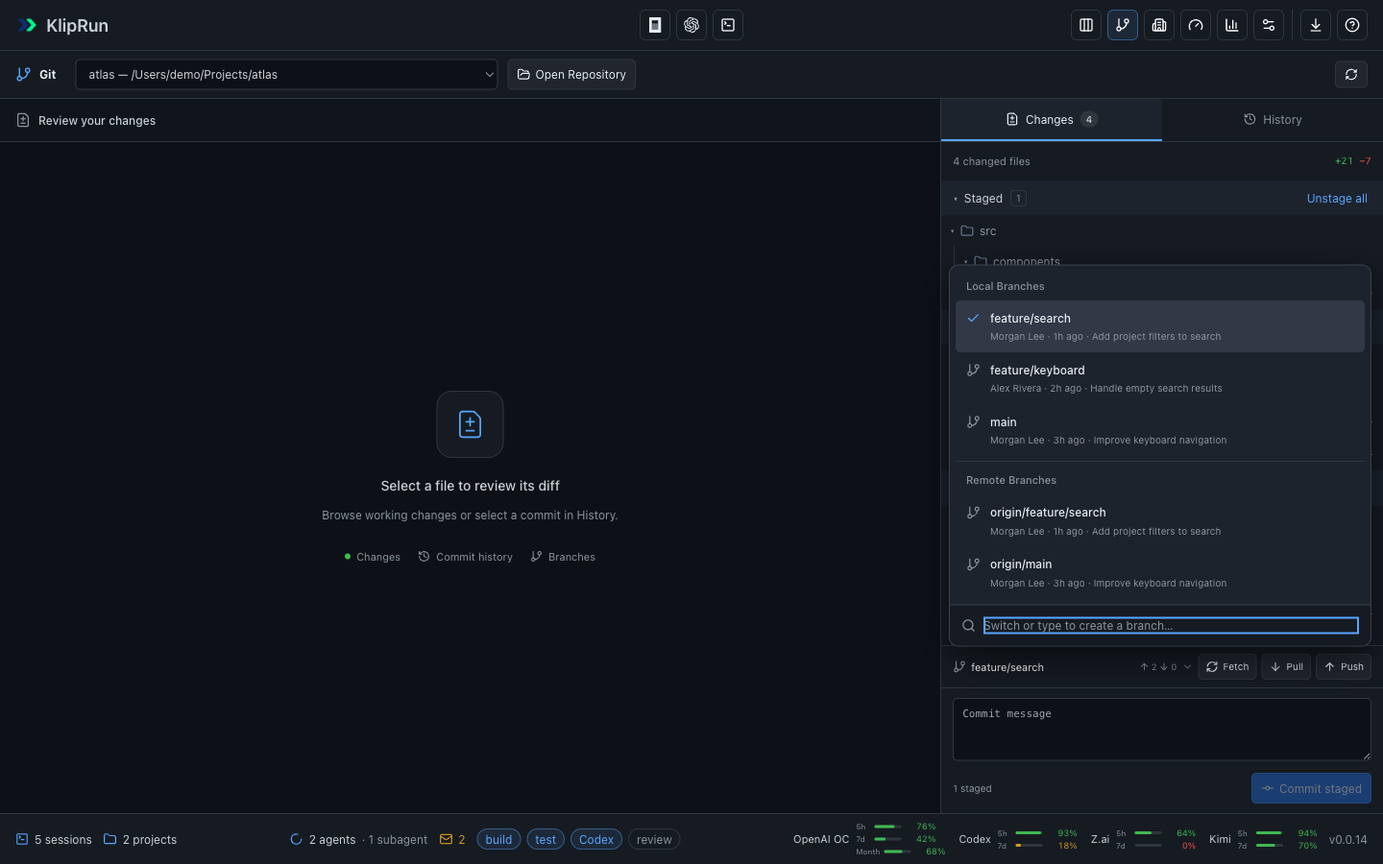
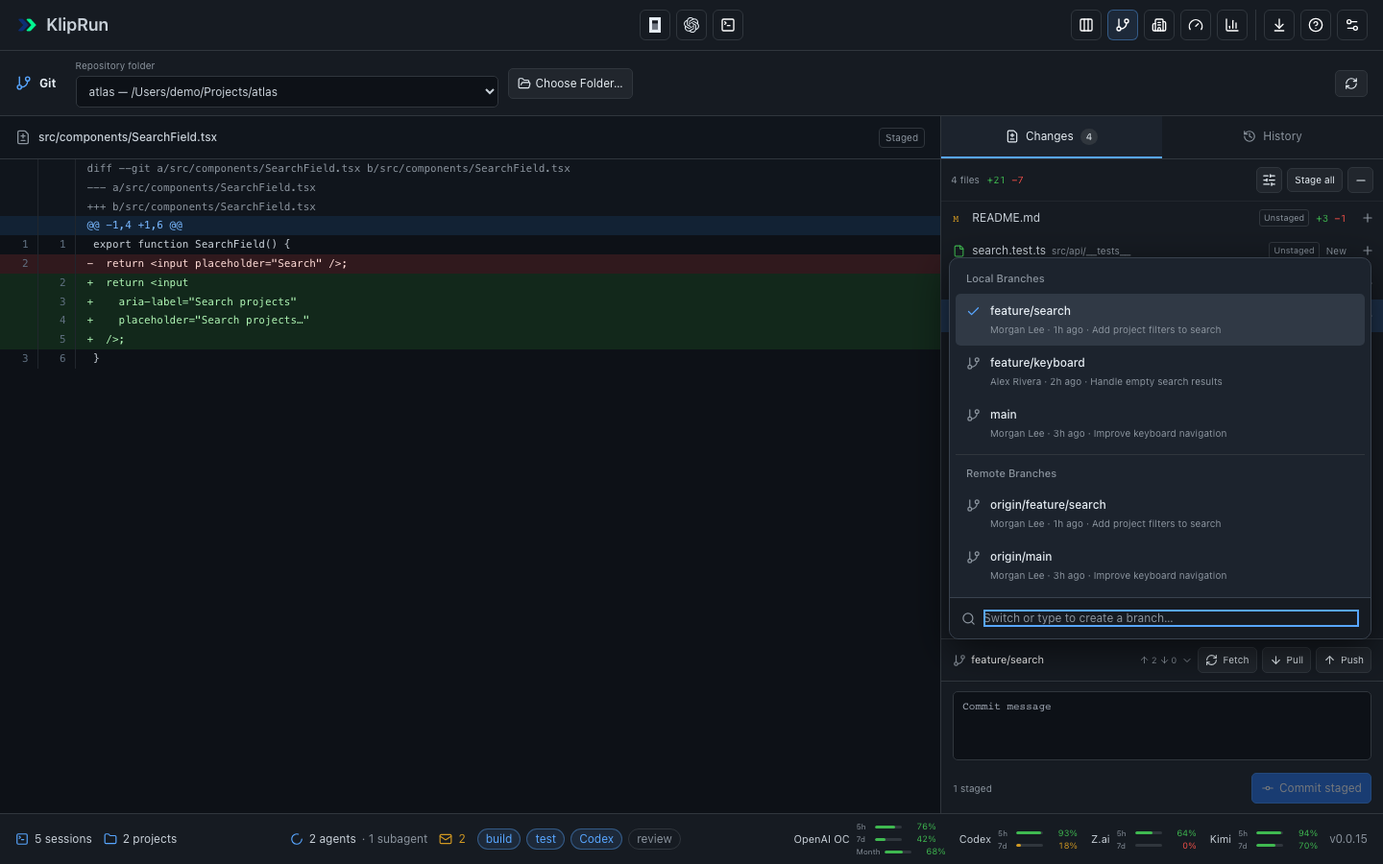
release/0.0.15: Сократить README и подготовить выпуск

diff --git a/docs/screenshots/capture-git.js b/docs/screenshots/capture-git.js
@@ -7,11 +7,16 @@ async (page, directory = "docs/screenshots") => {
   try {
     await page.setViewportSize({ width: 1440, height: 900 });
     await page.goto(`${base}/git`);
-    await page.evaluate(() => localStorage.removeItem("kliprun.git.sidebar-width"));
+    await page.evaluate(() => { localStorage.removeItem("kliprun.git.sidebar-width"); localStorage.removeItem("kliprun.git.changes-view"); });
     await page.reload();
     await page.locator('.git-file-select[title="src/api/search.ts"]').click();
+    await page.locator(".git-diff-heading").getByText("src/api/search.ts", { exact: true }).waitFor();
     await page.locator(".git-diff").waitFor();
     await page.screenshot({ path: `${directory}/git-changes.png`, animations: "disabled" });
+    await page.getByRole("button", { name: "Changes view settings", exact: true }).click();
+    await page.getByRole("menu", { name: "Changes view settings", exact: true }).waitFor();
+    await page.screenshot({ path: `${directory}/git-changes-settings.png`, animations: "disabled" });
+    await page.keyboard.press("Escape");
     await page.getByRole("tab", { name: "History", exact: true }).click();
     await page.locator(".git-history-row").first().click();
     await page.locator('.git-commit-files .git-file-select[title="src/api/search.ts"]').click();
@@ -28,6 +33,6 @@ async (page, directory = "docs/screenshots") => {
     await page.locator("dialog[open]").waitFor();
     await page.screenshot({ path: `${directory}/shortcuts.png`, animations: "disabled" });
     if (external.length) throw new Error("Capture made external requests");
-    return { captures: ["git-changes.png", "git-history.png", "git-branches.png", "shortcuts.png"], externalRequests: external.length };
+    return { captures: ["git-changes.png", "git-changes-settings.png", "git-history.png", "git-branches.png", "shortcuts.png"], externalRequests: external.length };
   } finally { page.off("request", listener); }
 }

diff --git a/docs/screenshots/capture-all.js b/docs/screenshots/capture-all.js
@@ -10,7 +10,7 @@ async (page, directory = "docs/screenshots") => {
     await page.goto(`${base}${path}`);
     if (!path.startsWith("/__demo/")) {
       await page.locator('[data-testid="version"]').waitFor();
-      if ((await page.locator('[data-testid="version"]').innerText()) !== "v0.0.14") throw new Error("Build the 0.0.14 client before capturing.");
+      if ((await page.locator('[data-testid="version"]').innerText()) !== "v0.0.15") throw new Error("Build the 0.0.15 client before capturing.");
     }
   }
   async function sidebar(expanded) {
@@ -24,6 +24,8 @@ async (page, directory = "docs/screenshots") => {
   }
   try {
     await visit("/", 1440, 900);
+    await page.evaluate(() => localStorage.removeItem("kliprun.recent-sessions.width"));
+    await page.reload();
     await page.locator('[data-testid="card-ses_demo_search"]').waitFor();
     await sidebar(false);
     await save("kanban");
@@ -32,6 +34,10 @@ async (page, directory = "docs/screenshots") => {
     await save("kanban-details");
     await page.setViewportSize({ width: 1600, height: 1000 });
     await sidebar(true);
+    await page.getByRole("button", { name: "Filter sessions", exact: true }).click();
+    await page.getByRole("separator", { name: "Resize recent sessions", exact: true }).focus();
+    for (let step = 0; step < 4; step++) await page.keyboard.press("ArrowRight");
+    await page.getByRole("searchbox", { name: "Search sessions", exact: true }).focus();
     await save("recent-sessions");
     await visit("/office", 1600, 1200);
     await page.locator(".office-resident").first().waitFor();

diff --git a/README.md b/README.md
@@ -1,107 +1,30 @@
 # KlipRun Desktop
 
-KlipRun is a macOS app for following OpenCode and Codex sessions in one place. It shows a Kanban board, a Git workspace, an animated Office view, usage statistics, notifications, and live terminal tabs for agents you start inside the app.
-
-## Install
-
-The downloadable build is for **Apple Silicon Macs running macOS 13 or newer**.
-
-1. Download `KlipRun-0.0.14-macos-arm64.zip` from the [latest release](https://github.com/klipbn/kliprun_desktop/releases/latest).
-2. Unzip it and move `KlipRun.app` to **Applications**.
-3. Open the app. The release is signed locally but is not notarized, so macOS may block the first launch. If it does, go to **System Settings → Privacy & Security → Open Anyway**, then open KlipRun again.
-
-Install and sign in to [OpenCode](https://opencode.ai/) or [Codex CLI](https://github.com/openai/codex) separately. KlipRun does not include either CLI or its credentials.
-
-### Update
-
-KlipRun checks for updates in the background at launch and once an hour while it is running. When a newer compatible stable GitHub release is available, the Updates icon beside Settings turns amber with a dot. Hover over it to see the version. Background checks do not open a window; a failed check keeps the last known update indicator.
-
-Click the **Updates** download icon beside Settings, choose **KlipRun → Check for Updates…**, or open **Settings → Updates**. **What's New** formats the GitHub release description with headings, lists, emphasis, code, and clickable web links. Long notes scroll while the action buttons stay visible; releases without a description show a placeholder. **Download Update** shows a progress bar, percentage, and downloaded size, followed by a separate SHA256 verification stage. If the server does not report a total size, it shows the downloaded bytes and an indeterminate bar. The verified ZIP is saved in a separate folder in **Downloads**. You can keep working during the download and reopen Updates to see its progress or result.
-
-Downloading does not install the update. The ready screen explains all four steps: quit KlipRun, unzip the download, replace `KlipRun.app` in **Applications**, then open it again. **Show ZIP in Finder** locates the archive while you keep working. Choose **Quit and Show Update** when ready to install; Finder then reveals the ZIP after KlipRun exits. If terminals are active, the usual exit confirmation appears; cancelling keeps KlipRun running and the download ready. **Keep KlipRun closed while replacing the app.** Updating does not change your saved preferences or session stores. If macOS blocks the new build, use **System Settings → Privacy & Security → Open Anyway** as for the first installation.
+A macOS app for OpenCode and Codex sessions: a Kanban board, embedded terminals, Git diffs, searchable session history, and usage statistics.
 
 ## Screenshots
 
-All sessions, project paths, and usage numbers shown below are fictional examples. [See the screenshot fixture and more views](docs/screenshots/README.md).
+![Kanban, Recent Sessions, and session details](docs/screenshots/recent-sessions.png)
 
-### Recent sessions
+![Git changes and diff](docs/screenshots/git-changes.png)
 
-Browse recent OpenCode and Codex sessions, inspect their details, and resume them in the original agent and project folder.
+![Office view](docs/screenshots/office.png)
 
-![Recent Sessions sidebar with session history, Resume in Terminal buttons, and selected session details](docs/screenshots/recent-sessions.png)
+[More screenshots](docs/screenshots/README.md), including terminals and statistics. All examples use fictional data.
 
-### Board and terminal
+## Install
 
-![KlipRun desktop with a synthetic OpenCode session visible in the embedded terminal](docs/screenshots/desktop-terminal.png)
+Requires **Apple Silicon and macOS 13+**.
 
-### Kanban and session details
+1. Download `KlipRun-0.0.15-macos-arm64.zip` from the [latest release](https://github.com/klipbn/kliprun_desktop/releases/latest).
+2. Unzip and move `KlipRun.app` to **Applications**. Quit KlipRun before replacing an older version.
+3. Open the app. If macOS blocks it, use **System Settings → Privacy & Security → Open Anyway**. The build is locally signed and not notarized.
 
-![Kanban board and session details with fictional agents](docs/screenshots/kanban-details.png)
+Install and sign in to [OpenCode](https://opencode.ai/) or [Codex CLI](https://github.com/openai/codex) separately. Git requires the macOS command line tools (`xcode-select --install`).
 
-### Office
+## Build
 
-![Office view with fictional coworkers](docs/screenshots/office.png)
-
-### Git
-
-![Git changes and diff with fictional project data](docs/screenshots/git-changes.png)
-
-![Git history and commit diff with fictional project data](docs/screenshots/git-history.png)
-
-[View the searchable branch picker](docs/screenshots/git-branches.png)
-
-### Statistics
-
-![Statistics view with fictional usage data](docs/screenshots/statistics.png)
-
-### Subscription limits
-
-![Compact Usage rows with fictional provider balances, colored status dots, and white reset labels](docs/screenshots/usage.png)
-
-## Use
-
-- The top toolbar uses icons with name and shortcut tooltips. OpenCode and Codex use their harness logos. The main controls follow **Kanban → Git → Office → Usage → Statistics → Settings**; update and shortcut-help icons remain available beside them.
-- **Kanban** shows active sessions and those needing attention. Click a card to inspect its activity. **Agents T** shows the time of each reply: relative age below 12 hours, then exact local date and time. Hover over a relative age to see the exact time.
-- **Running** uses arrival order until you reorder cards manually; new arrivals appear after the saved cards.
-- Set **Critical**, **Medium**, or **Low** priority by clicking the small flag beside a Kanban card’s title. Priorities are saved in macOS preferences for each session and restored across app launches.
-- Drag any part of a top-level Kanban card to move it up or down within **IDLE**, **RUNNING**, or **NEEDS ATTENTION**. Focus the card and press **↑/↓** to reorder with the keyboard. Each column remembers its order across app launches; child sessions stay with their parent.
-- **Recent Sessions** on the left lists the latest 50 top-level sessions. Click a title for details or **Resume in Terminal** to continue the same Codex or OpenCode session in its original folder. An existing matching tab is selected when available. The panel remembers whether it is collapsed.
-- Navigate with **Control+1** Kanban, **Control+2** Git, **Control+3** Office, **Control+4** Usage, and **Control+5** Statistics. **Kanban** returns to the board from any view. **Office** shows the same agents as animated coworkers; the coworker matching the selected terminal has a blue outline and a **Terminal** badge, just like the board card.
-- **Git** opens project repositories from active and recent sessions, or any working tree chosen with **Open Repository**. The last chosen repository is remembered. **Changes** separates Staged, Unstaged, and Untracked files into folder trees; click a file to review its diff with line numbers. Use the file's **+ / −** or a group's **Stage all / Unstage all** to prepare the index, enter a message, then **Commit staged**. A failed commit preserves the message. Successful local Git actions show a small confirmation for 2.5 seconds, then it disappears automatically. Fetch, Pull, Push and Publish run immediately and refresh silently on success. Binary files and preview limits are identified explicitly.
-- Git's **History** lists commits, authors, dates, hashes, and branch/tag labels. Select a commit, then one of its files to inspect the diff; merge commits compare with their first parent. **Load older commits** pages through history. Click the branch name beside Fetch/Pull/Push to open one searchable list of local and remote branches, with the author, age, and last commit. Select a branch to switch immediately, or type a new name and press Enter to create it at HEAD. Escape or an outside click closes the list. **Fetch**, **Pull**, and **Push / Publish** automatically use the configured remote (or origin when no upstream is configured) and existing Git authentication; Pull allows fast-forward updates only. Commits show a confirmation; stale operations are rejected if HEAD changed. Drag the divider beside Changes/History to resize the right panel, or focus it and use Left/Right. The width is remembered when switching views, and small windows stack the panels. Git refreshes local changes every five seconds while visible; remote operations run only on request. Install the macOS command line tools if Git is unavailable. Partial-hunk staging, conflict editing, rebase, and force push are outside this version.
-- **Statistics** opens on the last 30 days. Daily and Weekly token heatmaps, token composition, peak-day and leading-model/project highlights, trends, work patterns, and task rankings share the same date and source filters. Choose a token type, click a day or week to explore it, and use **Back to previous range** to return. The task list includes calls and tokens per call. **Last 90 days** reveals longer-term patterns; **Export daily CSV** saves exact totals through the macOS save dialog.
-- **Usage** next to Office (**Control+4**) shows remaining subscription allowances for OpenAI via OpenCode, OpenAI via Codex, Z.ai, and Kimi. Compact provider rows keep their size when the terminal opens; scroll Usage when less vertical room is available. Expand **Reset schedule and provider information** for upcoming resets. Rows show each available limit window, the lowest remaining allowance, and reset times. The status dot uses the lowest remaining window: green above 30%, yellow above 10% through 30%, red at 10% or below, and gray for stale or unavailable data. Limits refresh every minute while the app is open, or with **Refresh**.
-- The **bottom status bar** shows compact remaining-limit bars and percentages for up to six connected providers. Available 5-hour and weekly windows appear separately; other periods keep their own labels. Hover for reset times or click a provider to open Usage. Cached balances and pending resets are marked in gray. The limits wrap onto another row in narrow windows.
-- **New OpenCode** and **New Codex** ask you to choose a project folder, then start the agent in the terminal panel.
-- **⌘T** lets you choose OpenCode, Codex, or a plain terminal. A plain terminal opens in the selected tab's folder, or your home folder when no tab is selected.
-- Terminal toolbar controls and each session tab’s close button highlight on hover, with larger click targets and tooltips. Drag terminal tabs left or right to reorder them. **⌘1–9** follows the new order. Hover over a tab to see the full folder path it was launched from.
-- Switching terminal tabs also opens the matching session in the details panel. Tabs without a known session keep the current details open.
-- Clicking a session card switches an already visible terminal when its session is known. New Codex tabs request the current chat ID through Codex's terminal-title setting, so the card follows `/new` and `/resume` automatically without a chat selector. KlipRun resolves shortened IDs only when they match exactly one stored session. Tab labels keep their project name and can still be renamed. Existing or external terminals without that signal use confirmed process links; ambiguous cards show **Connecting session…**. **Resume in Terminal** preserves the requested session link until the terminal reports its current chat.
-- On Codex 0.163, this per-launch title setting uses an embedded backend instead of automatically reusing the shared daemon. Existing daemon sessions keep running; user configuration and chat history stay shared.
-- Click **Terminal** to show or hide the terminal area. Tabs keep running while hidden. Closing an active tab or quitting the app asks before ending its process.
-- Use the position button beside **+** in the terminal toolbar to switch between **Move terminal to left** and **Move terminal to bottom**. Drag the divider to adjust the pane; its position, bottom height, and left width are remembered independently. Moving the panel keeps the current terminal and dashboard view open.
-- Exiting an agent or shell automatically closes its terminal tab. The terminal area hides after the last tab exits.
-- **⌘W** closes the visible selected terminal tab, with confirmation for a running process. It is disabled when the terminal area is hidden or empty. **⌘Q** quits the app.
-- Click **?** in the upper-right corner for every keyboard shortcut. Open **Settings** with the neighboring button or **⌘,**. A dark panel slides over the right side of the main window. Close it with **Esc**, the close button, or a click on the dimmed background. Changes save automatically between launches.
-- **Settings → Terminal** adjusts mouse-wheel speed from **1–10×** (default **5×**), smooth scrolling for trackpads and Magic Mouse independently (default **1×**), terminal font size (**10–24 pt**) with a live text preview, and left/bottom placement. Speed and font changes apply to all open terminals immediately and to newly opened tabs. Restore the terminal defaults with **Reset terminal settings**. Wheel speed also applies when Codex/OpenCode handles scrolling itself; generated input remains rate-limited.
-- **Settings → Appearance** controls interface scale independently of the terminal font, the next launch's startup screen, the default details tab, and reduced Office animations. The macOS Reduce Motion setting is also respected.
-- Session details use **User → Agents T → Agent → Models → Kanban**. **Agents T** remains the default, with readable agent replies and Markdown. Choose any of the five tabs under **Settings → Appearance → Default views → Default details tab**. **Kanban** shows status history and time spent in each state. Harness icons distinguish Codex and OpenCode on cards and in details. Click the current Git branch to open it on GitHub or GitLab; without a remote, the branch stays plain text. The branch follows the repository's current `HEAD`, including worktrees.
-- **Settings → Notifications** controls the coworker popup, with separate **Response ready** and **Needs your input** switches. **Sound** offers installed macOS system sounds, **Preview sound**, and **None** for silence. The selected sound plays when a popup appears, including **Show preview**. Display duration and popup position controls are in the same section.
-- **Settings → Updates** checks, downloads, and explains installation without leaving the panel. **Settings → About** shows version, architecture, active terminal count, and local engine status. Open app data, reveal the engine log, or copy basic diagnostics containing app/system versions and settings, without credentials, paths, or session content.
-
-KlipRun reads existing OpenCode and Codex session data without changing their stores. Its bundled engine runs on a random local loopback port and requires an app-generated token. App preferences and its own state live in `~/Library/Application Support/KlipRun Desktop`.
-
-If a Codex process scan temporarily fails, the board keeps the last observed sessions until a successful scan updates which terminals are running.
-
-Codex shows one card per live terminal. When the shared daemon keeps multiple chats loaded and the current chat cannot be identified, the card displays **Session not linked**. Ambiguous sessions stay unresolved until the terminal supplies a confirmed identity. Unlinked terminal cards do not contribute session history, usage statistics or unread counts.
-
-Usage reads OpenCode's `auth.json` beside its database (normally `~/.local/share/opencode/auth.json`, honoring `XDG_DATA_HOME`) and Codex's `auth.json` in `CODEX_HOME` (normally `~/.codex`). The local engine makes read-only requests directly to the providers' quota APIs; credentials stay in the engine and are never sent to the web interface. OpenAI subscription limits require a ChatGPT sign-in; API-key-only accounts cannot provide them. For an expired sign-in, open the corresponding agent to renew it, then refresh Usage. Last successful balances stay in memory while the app runs; on a provider failure they are marked **Cached**. Missing or unsupported limits stay unknown. OpenCode and Codex may use different OpenAI accounts; cards are separate sources, not additive allowances. Statistics remains the place for historical token consumption.
-
-Statistics heatmaps use the selected time zone and Monday-based calendar weeks. Colors are relative to the busiest day or week for the selected token type. Current days and clipped weeks are marked as partial; empty cells mean no recorded usage. Calls without a known date remain in all-time totals and are excluded from calendar cells. Input, cache read/write, output, and reasoning are counted without overlap. The input cache ratio uses all input tokens as its denominator; it is not an estimate of money saved. CSV exports include date boundaries, timezone, every token component, call counts, and partial/incomplete flags. Heatmap mode and token type are preserved in the Statistics URL.
-
-## Build from source
-
-You need macOS, a **Swift 6 toolchain** (Xcode or Command Line Tools), and [Bun](https://bun.sh/) 1.4 or newer. The script detects your installed macOS SDK and Bun executable.
+Requires macOS, **Swift 6** (Xcode or Command Line Tools), and [Bun 1.4+](https://bun.sh/).
 
 ```sh
 git clone https://github.com/klipbn/kliprun_desktop.git
@@ -110,13 +33,11 @@ zsh scripts/build.sh
 open dist/KlipRun.app
 ```
 
-After building, run the checks:
+Run tests:
 
 ```sh
 zsh scripts/test.sh
 cd engine && bun run test
 ```
 
-The app uses SwiftUI, AppKit, WebKit, a local Bun engine, and a vendored copy of SwiftTerm. The application is MIT licensed; see [LICENSE](LICENSE) and [SwiftTerm's license](vendor/SwiftTerm/LICENSE). The engine and web UI are based on the original [KlipRun](https://github.com/klipbn/kliprun) project.
-
-See [CHANGELOG.md](CHANGELOG.md) for release history.
+[Changelog](CHANGELOG.md) · [MIT license](LICENSE) · Based on [KlipRun](https://github.com/klipbn/kliprun) and [SwiftTerm](vendor/SwiftTerm/LICENSE).

diff --git a/docs/screenshots/README.md b/docs/screenshots/README.md
@@ -1,23 +1,30 @@
 # Demo screenshots
 
-All twelve images were refreshed from **KlipRun Desktop 0.0.14** on **2026-10-17**. Session IDs, titles, project paths, models, priority flags, Git metadata, quotas, and usage totals come only from [`mock-api.json`](mock-api.json). The preview fixes the clock to the fixture’s `board.generated_at` (2026-10-14), supplies a stub desktop bridge, and disables Office motion. No live engine, user session store, credentials, quota API, or agent process is used.
+All thirteen images were refreshed from **KlipRun Desktop 0.0.15** on **2026-10-17**. Session IDs, titles, project paths, models, priority flags, Git metadata, quotas, and usage totals come only from [`mock-api.json`](mock-api.json). The preview fixes the clock to the fixture’s `board.generated_at` (2026-10-14), supplies a stub desktop bridge, and disables Office motion. No live engine, user session store, credentials, quota API, or agent process is used.
 
 | File | Size | Example shown |
 | --- | --- | --- |
 | [`kanban.png`](kanban.png) | 1440 × 900 | Kanban columns, nested subagent, and synthetic Critical/Medium/Low flags |
 | [`kanban-details.png`](kanban-details.png) | 1440 × 900 | Selected Implement search API session and the default Agents T details tab |
-| [`recent-sessions.png`](recent-sessions.png) | 1600 × 1000 | Recent Sessions sidebar, Resume in Terminal buttons, and matching selected details |
+| [`recent-sessions.png`](recent-sessions.png) | 1600 × 1000 | Resized sidebar with compact title/project/time rows, search, bounded agent/project/updated filter controls, resume icons, and matching selected details |
 | [`desktop-terminal.png`](desktop-terminal.png) | 1440 × 900 | Fixture-based board plus a static synthetic terminal panel |
 | [`office.png`](office.png) | 1600 × 1200 | Fictional coworkers, model labels, rooms, and token leaderboard |
 | [`statistics.png`](statistics.png) | 1600 × 1600 | Last 30 days, Daily token activity, composition, and trends in UTC |
 | [`statistics-weekly.png`](statistics-weekly.png) | 1600 × 1600 | Weekly token activity for the same fictional dataset |
 | [`usage.png`](usage.png) | 1600 × 900 | Compact provider rows with colored status dots and white limit/reset labels |
-| [`git-changes.png`](git-changes.png) | 1440 × 900 | Fictional staged/unstaged/untracked files and a line-numbered diff |
+| [`git-changes.png`](git-changes.png) | 1440 × 900 | Fictional changes in List/Path/None mode, staging controls, and a line-numbered diff |
+| [`git-changes-settings.png`](git-changes-settings.png) | 1440 × 900 | Changes settings menu with List/Tree, Path/Name, and three grouping choices |
 | [`git-branches.png`](git-branches.png) | 1440 × 900 | Branch popover with fictional commit metadata and a search/create field |
 | [`git-history.png`](git-history.png) | 1440 × 900 | Fictional commits, refs, commit files and first-parent diff |
 | [`shortcuts.png`](shortcuts.png) | 1600 × 1000 | Current in-app keyboard shortcut dialog |
 
 The fixture API covers `/api/board`, `/api/session/:id`, `/api/recent-sessions`, `/api/stats`, `/api/stats/sessions`, `/api/stats/session/:id`, `/api/stats/office-usage`, and `/api/quota/:provider`. Statistics uses `statistics_dataset`, a fictional 60-day event and observation history, through the production aggregators. The `card_priorities` map supplies only fictional session IDs. The selected details session is `ses_demo_search`, matching the fixture’s `details` payload.
+
+Recent Sessions uses an in-memory `UsageStore` populated only from the fixture's `recent_sessions.sessions`. The preview applies the production query parser and metadata search/pagination to this fictional index. [`../../scripts/recent-sessions.test.js`](../../scripts/recent-sessions.test.js) covers search, combined filters, empty results, collapse/restore, resume, compact layouts, and paginated selection followed by Git navigation. Its pagination response is synthetic; no agent is launched.
+
+[`../../scripts/recent-session-controls.test.js`](../../scripts/recent-session-controls.test.js) checks pointer/keyboard resizing, saved width, viewport limits, cancellation, and bounded filter menus at normal and small sizes. It adds 243 fictional project paths, including long paths, duplicate names and Cyrillic, to verify project search, scrolling, keyboard selection and dismissal. Both Recent Sessions scripts run in an isolated headless browser and make no external requests. The Recent Sessions image was refreshed on 2026-10-17 for these controls, at a manually expanded sidebar width of 288 pixels.
+
+[`../../scripts/git-repository-discovery.test.js`](../../scripts/git-repository-discovery.test.js) adds a synthetic long project history to the fixture response and checks discovery against Bun's real HTTP header limit. It verifies bounded request URLs, successful batches, merged roots, and a Git view without an error; it does not read real repositories.
 
 Build the client with `cd engine/src/client && bun run build`, then start `bun docs/screenshots/preview.ts` from the repository root. The fixture-only server binds to `127.0.0.1:18796` and serves the built client without starting a live engine.
 
@@ -25,6 +32,6 @@ Build the client with `cd engine/src/client && bun run build`, then start `bun d
 
 `desktop-terminal.png` combines the current `kanban-details.png` capture with [`terminal-demo.html`](terminal-demo.html), available at `/__demo/terminal-demo.html`. The terminal transcript and tabs are static fictional content with white tab labels; this composition never launches an agent or captures a real terminal.
 
-The `git` fixture supplies repository roots, status, history, commit files, and diff patches for `/api/git/*`. The preview rejects Git actions and never invokes Git or accesses working repositories. [`capture-git.js`](capture-git.js) captures Changes, the branch popover, History, and shortcuts. The `git.status.branches` fixture includes only fictional author, date, and last-commit metadata. [`../../scripts/git-workspace.test.js`](../../scripts/git-workspace.test.js) covers the UI workflow and normal/small layouts with in-memory responses based on the same fixture; [`../../scripts/git-panel-resize.test.js`](../../scripts/git-panel-resize.test.js) covers panel resizing.
+The `git` fixture supplies repository roots, status, history, commit files, and diff patches for `/api/git/*`. The preview rejects Git actions and never invokes Git or accesses working repositories. [`capture-git.js`](capture-git.js) captures Changes, its display-settings menu, the branch popover, History, and shortcuts. The `git.status.branches` fixture includes only fictional author, date, and last-commit metadata. [`../../scripts/git-workspace.test.js`](../../scripts/git-workspace.test.js) covers direct commit submission, message-field scrolling, the UI workflow, and normal/small layouts with in-memory responses based on the same fixture; [`../../scripts/git-panel-resize.test.js`](../../scripts/git-panel-resize.test.js) covers panel resizing. [`../../scripts/git-session-follow.test.js`](../../scripts/git-session-follow.test.js) covers session-driven repository selection, sessions without Git, per-repository drafts, nested folders, and switching sessions during a commit. [`../../scripts/git-changes-settings.test.js`](../../scripts/git-changes-settings.test.js) covers display settings, partial staging, saved options, keyboard navigation, and popup placement. These tests use fixture responses without modifying repositories.
 
-The 0.0.14 images show the icon-only toolbar in **Kanban → Git → Office → Usage → Statistics → Settings** order. Shortcuts use Control+1 Kanban, Control+2 Git, Control+3 Office, Control+4 Usage, and Control+5 Statistics. Both capture callbacks made **zero external requests**.
+The toolbar follows **Kanban → Git → Office → Usage → Statistics**, with a separate **Check for Updates → Keyboard shortcuts → Settings** utility group. Shortcuts use Control+1 Kanban, Control+2 Git, Control+3 Office, Control+4 Usage, and Control+5 Statistics. Both capture callbacks made **zero external requests**.

diff --git a/CHANGELOG.md b/CHANGELOG.md
@@ -4,6 +4,26 @@ Notable changes to KlipRun Desktop are recorded here. Versions use [Semantic Ver
 
 ## [Unreleased]
 
+## [0.0.15] - 2026-10-17
+
+### Changed
+
+- Compact Recent Sessions with search across indexed history, Agent/Project/Updated filters, pagination, and inline resume controls. Preserve search and filters while switching views or collapsing the panel.
+- Resize Recent Sessions from its right edge or with Left/Right keys; remember the width across launches. Keep filter menus inside the panel and search projects by name or folder path.
+- Add Git Changes settings for List/Tree, Path/Name, and grouping by tracked or staging status. Remember choices and keep both diffs for partially staged files.
+- Group toolbar utilities as **Check for Updates → Keyboard shortcuts → Settings**.
+- Expand available-update notes to the main window's full height, with scrolling and fixed action buttons.
+
+### Fixed
+
+- Open Git reliably with large project histories by splitting repository discovery into bounded requests. Handle invalid API responses without WebKit's “The string did not match the expected pattern.” error.
+- Follow the selected session's repository, including older Recent Sessions entries, and open a changed file's diff automatically. Clear stale changes for sessions without Git; label the repository context and manual **Choose Folder…** action.
+- Commit immediately with **Commit staged**, without another confirmation. Keep the message field at a fixed height with scrolling, retain drafts per repository, and preserve messages on failure.
+
+### Documentation
+
+- Shorten the README to an app overview, screenshots, installation, and build commands. Refresh all thirteen demo screenshots using fictional fixture data only.
+
 ## [0.0.14] - 2026-10-17
 
 ### Added
@@ -270,4 +290,5 @@ First public macOS release.
 [0.0.12]: https://github.com/klipbn/kliprun_desktop/releases/tag/v0.0.12
 [0.0.13]: https://github.com/klipbn/kliprun_desktop/releases/tag/v0.0.13
 [0.0.14]: https://github.com/klipbn/kliprun_desktop/releases/tag/v0.0.14
-[Unreleased]: https://github.com/klipbn/kliprun_desktop/compare/v0.0.14...main
+[0.0.15]: https://github.com/klipbn/kliprun_desktop/releases/tag/v0.0.15
+[Unreleased]: https://github.com/klipbn/kliprun_desktop/compare/v0.0.15...main
